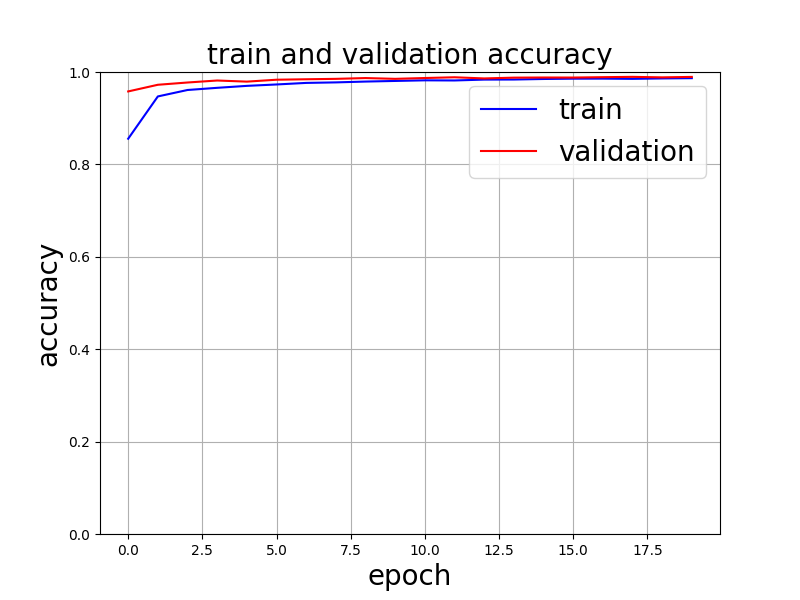
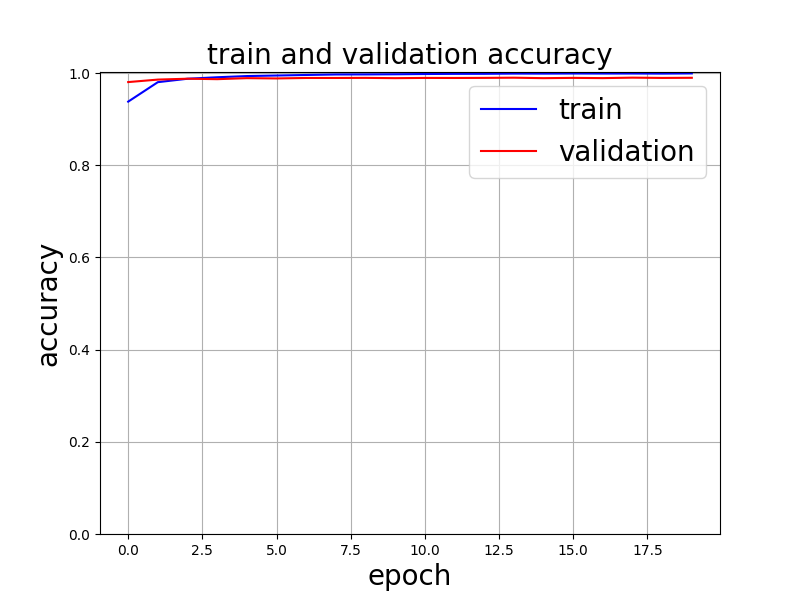
実験15

diff --git a/main.py b/main.py
@@ -48,7 +48,7 @@ def train(epochs):
     print(f"epoch: {epochs + 1}")
     print(f"train_loss: {train_loss / len(dataloader1)}")
     print(f"train_accuracy: {train_accuracy / len(dataloader1)}")
-    with open('./result/data16_train.csv', 'a') as f:
+    with open('./result/data15_train.csv', 'a') as f:
             f.write('{:<3d},{:<3f},{:<3f}\n'.format(epochs+1,train_loss / len(dataloader1),train_accuracy / len(dataloader1)))
     train_loss = train_loss / len(dataloader1)
     train_accuracy = train_accuracy / len(dataloader1)
@@ -77,7 +77,7 @@ def val(epochs):
     print(f"epoch: {epochs + 1}")
     print(f"Validation loss: {val_loss / len(dataloader2)}")
     print(f"Validation accuracy: {val_accuracy / len(dataloader2)}")
-    with open('./result/data16_val.csv', 'a') as f:
+    with open('./result/data15_val.csv', 'a') as f:
             f.write('{:<3d},{:<3f},{:<3f}\n'.format(epochs+1,val_loss / len(dataloader2),val_accuracy / len(dataloader2)))
     val_loss = val_loss / len(dataloader2)
     val_accuracy = val_accuracy / len(dataloader2)
@@ -104,7 +104,7 @@ def run():
     plt.xlabel('Predict class', fontsize=13)
     plt.ylabel('True class', fontsize=13)
     plt.title('Confusion Matrix', fontsize=18)
-    plt.savefig('./result/confusion_matrix_16.png')
+    plt.savefig('./result/confusion_matrix_15.png')
     #lossグラフ作成
     fig, ax = plt.subplots(figsize=(8, 6))
     ax.plot(range(len(train_loss_list)), train_loss_list, c='b', label='train')
@@ -115,7 +115,7 @@ def run():
     ax.grid()
     ax.legend(fontsize='20')
     plt.show()
-    plt.savefig('./result/loss_graph_16.png')
+    plt.savefig('./result/loss_graph_15.png')
      #accuracyグラフ作成
     fig, ax = plt.subplots(figsize=(8, 6))
     ax.plot(range(len(train_accuracy_list)), train_accuracy_list, c='b', label='train')
@@ -127,7 +127,7 @@ def run():
     ax.grid()
     ax.legend(fontsize='20')
     plt.show()
-    plt.savefig('./result/accuracy_graph_16.png')
+    plt.savefig('./result/accuracy_graph_15.png')
     #間違えた数字の可視化
     fig = plt.figure(figsize=(20,5))
     data_block = torch.cat(data_list,dim=0)
@@ -138,7 +138,7 @@ def run():
         ax.axis('off')
         ax.set_title(f'true:{true_list[idx]} pred:{preds_list[idx]}')
         ax.imshow(data_block[idx,0])
-        plt.savefig('./result/misspreddata_16')
+        plt.savefig('./result/misspreddata_15')
 
 if __name__ == "__main__":
     run()

diff --git a/dataset/mnist.py b/dataset/mnist.py
@@ -5,8 +5,7 @@ from torchvision import transforms
 
 def get_train_dataloader(root: str, batch_size: int=64):
     transform = transforms.Compose([
-        transforms.ToTensor(),
-        transforms.RandomRotation(degrees=90),
+        transforms.ToTensor()
     ])
 
     train_dataset = MNIST(
@@ -26,8 +25,7 @@ def get_train_dataloader(root: str, batch_size: int=64):
 
 def get_test_dataloader(root: str, batch_size: int=64):
     transform = transforms.Compose([
-        transforms.ToTensor(),
-        transforms.RandomRotation(degrees=90),
+        transforms.ToTensor()
     ])
 
     test_dataset = MNIST(
